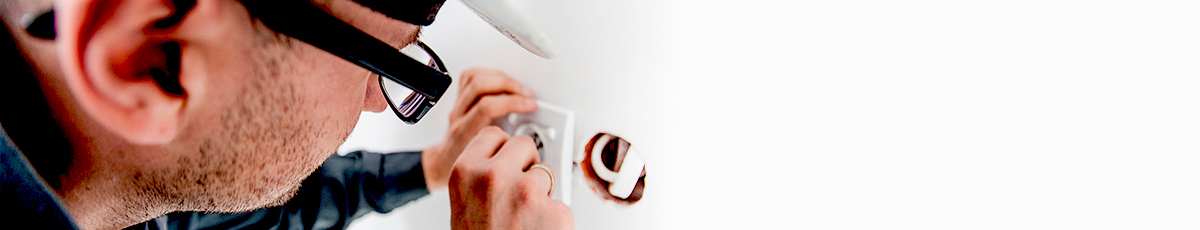
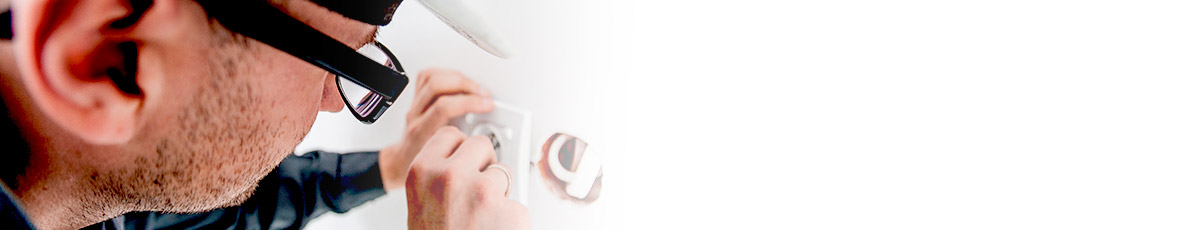
Mejorar cabeceras para unificarse el diseño, mejorar el css de las cabeceras

diff --git a/landing/templates/landing/secundarias/reparaciones-y-reformas.html b/landing/templates/landing/secundarias/reparaciones-y-reformas.html
@@ -7,7 +7,7 @@
 
 {% block slider %}
 <header class="intro-header">
-    <img class="img-responsive home-slide" src="{% static 'img/cabeceras/servicio-electricista.jpg' %}" alt="Ofrecer servicio">
+    <img class="img-responsive" src="{% static 'img/cabeceras/servicio-electricista.jpg' %}" alt="Ofrecer servicio">
 </header>
 {% endblock slider %}
 

diff --git a/landing/templates/landing/secundarias/clases-particulares.html b/landing/templates/landing/secundarias/clases-particulares.html
@@ -7,7 +7,7 @@
 
 {% block slider %}
 <header class="intro-header">
-    <img class="img-responsive home-slide" src="{% static 'img/cabeceras/servicios-y-clientes.jpg' %}" alt="Ofrecer servicio">
+    <img class="img-responsive" src="{% static 'img/cabeceras/servicios-y-clientes.jpg' %}" alt="Ofrecer servicio">
 </header>
 {% endblock slider %}
 

diff --git a/landing/templates/landing/secundarias/cuidado-de-personas.html b/landing/templates/landing/secundarias/cuidado-de-personas.html
@@ -7,7 +7,7 @@
 
 {% block slider %}
 <header class="intro-header">
-    <img class="img-responsive home-slide" src="{% static 'img/cabeceras/servicios-y-clientes.jpg' %}" alt="Ofrecer servicio">
+    <img class="img-responsive" src="{% static 'img/cabeceras/servicios-y-clientes.jpg' %}" alt="Ofrecer servicio">
 </header>
 {% endblock slider %}
 

diff --git a/landing/templates/landing/secundarias/hogar-y-limpieza.html b/landing/templates/landing/secundarias/hogar-y-limpieza.html
@@ -7,7 +7,7 @@
 
 {% block slider %}
 <header class="intro-header">
-    <img class="img-responsive home-slide" src="{% static 'img/cabeceras/servicios-y-clientes.jpg' %}" alt="Ofrecer servicio">
+    <img class="img-responsive" src="{% static 'img/cabeceras/servicios-y-clientes.jpg' %}" alt="Ofrecer servicio">
 </header>
 {% endblock slider %}
 

diff --git a/landing/templates/landing/secundarias/monitor-de-deportes.html b/landing/templates/landing/secundarias/monitor-de-deportes.html
@@ -7,7 +7,7 @@
 
 {% block slider %}
 <header class="intro-header">
-    <img class="img-responsive home-slide" src="{% static 'img/cabeceras/servicios-y-clientes.jpg' %}" alt="Ofrecer servicio">
+    <img class="img-responsive" src="{% static 'img/cabeceras/servicios-y-clientes.jpg' %}" alt="Ofrecer servicio">
 </header>
 {% endblock slider %}
 

diff --git a/landing/templates/landing/secundarias/salud-y-bienestar.html b/landing/templates/landing/secundarias/salud-y-bienestar.html
@@ -7,7 +7,7 @@
 
 {% block slider %}
 <header class="intro-header">
-    <img class="img-responsive home-slide" src="{% static 'img/cabeceras/servicios-y-clientes.jpg' %}" alt="Ofrecer servicio">
+    <img class="img-responsive" src="{% static 'img/cabeceras/servicios-y-clientes.jpg' %}" alt="Ofrecer servicio">
 </header>
 {% endblock slider %}
 

diff --git a/landing/templates/landing/secundarias/servicios-informaticos.html b/landing/templates/landing/secundarias/servicios-informaticos.html
@@ -7,7 +7,7 @@
 
 {% block slider %}
 <header class="intro-header">
-    <img class="img-responsive home-slide" src="{% static 'img/cabeceras/servicios-y-clientes.jpg' %}" alt="Ofrecer servicio">
+    <img class="img-responsive" src="{% static 'img/cabeceras/servicios-y-clientes.jpg' %}" alt="Ofrecer servicio">
 </header>
 {% endblock slider %}
 

diff --git a/landing/templates/landing/secundarias/todos-nuestros-servicios.html b/landing/templates/landing/secundarias/todos-nuestros-servicios.html
@@ -7,7 +7,7 @@
 
 {% block slider %}
 <header class="intro-header">
-    <img class="img-responsive home-slide" src="{% static 'img/cabeceras/servicios-y-clientes.jpg' %}" alt="Ofrecer servicio">
+    <img class="img-responsive" src="{% static 'img/cabeceras/servicios-y-clientes.jpg' %}" alt="Ofrecer servicio">
 </header>
 {% endblock slider %}
 

diff --git a/profesionales/templates/profesionales/profesional-form.html b/profesionales/templates/profesionales/profesional-form.html
@@ -3,7 +3,7 @@
 
 {% block slider %}
 <header class="intro-header">
-	<img class="img-responsive home-slide" src="{% static 'img/cabeceras/registro-profesionales.jpg' %}" alt="Ofrecer servicio">
+	<img class="img-responsive" src="{% static 'img/cabeceras/registro-profesionales.jpg' %}" alt="Ofrecer servicio">
 </header>
 {% endblock slider %}
 

diff --git a/clientes/templates/clientes/cliente-form.html b/clientes/templates/clientes/cliente-form.html
@@ -3,7 +3,7 @@
 
 {% block slider %}
 <header class="intro-header">
-	<img class="img-responsive home-slide" src="{% static 'img/cabeceras/solicitar-servicio.jpg' %}" alt="Solicitar servicio">
+	<img class="img-responsive" src="{% static 'img/cabeceras/solicitar-servicio.jpg' %}" alt="Solicitar servicio">
 </header>
 {% endblock slider %}
 

diff --git a/landing/templates/404.html b/landing/templates/404.html
@@ -3,7 +3,7 @@
 
 {% block slider %}
 <header class="intro-header">
-    <img class="img-responsive home-slide" src="{% static 'img/cabeceras/ofrecer-servicio.jpg' %}" alt="Ofrecer servicio">
+    <img class="img-responsive" src="{% static 'img/cabeceras/ofrecer-servicio.jpg' %}" alt="Ofrecer servicio">
 </header>
 {% endblock slider %}
 

diff --git a/landing/templates/500.html b/landing/templates/500.html
@@ -3,7 +3,7 @@
 
 {% block slider %}
 <header class="intro-header">
-    <img class="img-responsive home-slide" src="{% static 'img/cabeceras/ofrecer-servicio.jpg' %}" alt="Ofrecer servicio">
+    <img class="img-responsive" src="{% static 'img/cabeceras/ofrecer-servicio.jpg' %}" alt="Ofrecer servicio">
 </header>
 {% endblock slider %}
 
